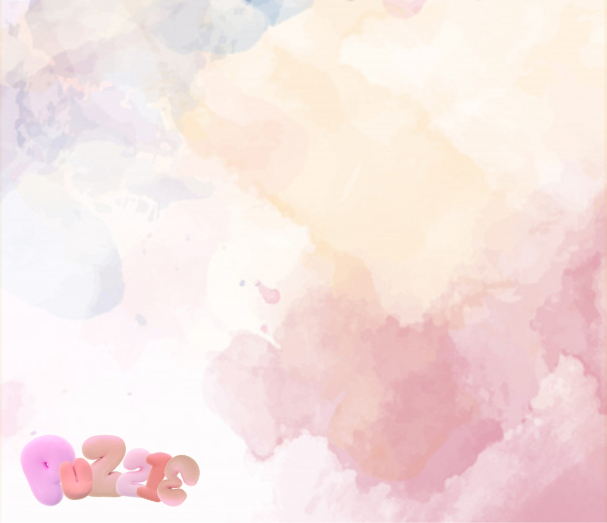
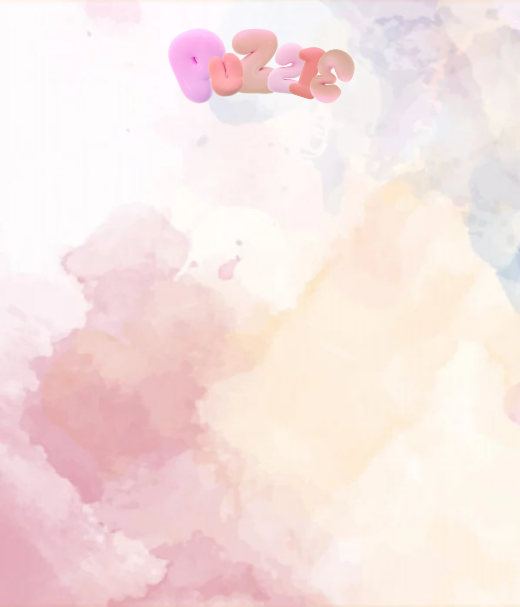
update

diff --git a/lib/MenuWidget.dart b/lib/MenuWidget.dart
@@ -8,6 +8,7 @@ class MenuWidget extends StatelessWidget {
         mainAxisAlignment: MainAxisAlignment.center,
         children: <Widget>[
           Spacer(),
+          Spacer(),
           ElevatedButton(
             onPressed: () {
               // Handle "PLAY" button click
@@ -37,7 +38,7 @@ style: ElevatedButton.styleFrom(
                 ),
               primary: Color.fromARGB(255, 240, 181, 181),
               onPrimary: Colors.black,
-              padding: EdgeInsets.all(50.0),
+              padding: EdgeInsets.fromLTRB(120.0, 40.0, 120.0, 40.0),
               
             ),
 ),
@@ -70,7 +71,7 @@ style: ElevatedButton.styleFrom(
                 ),
               primary: Color.fromARGB(255, 240, 181, 181),
               onPrimary: Colors.black,
-              padding: EdgeInsets.fromLTRB(16.0, 50.0, 16.0, 50.0),
+              padding: EdgeInsets.fromLTRB(90.0, 50.0, 90.0, 50.0),
             ),
           ),
           Spacer(),
@@ -101,7 +102,7 @@ style: ElevatedButton.styleFrom(
                 ),
               primary: Color.fromARGB(255, 240, 181, 181),
               onPrimary: Colors.black,
-              padding: EdgeInsets.fromLTRB(16.0, 50.0, 16.0, 50.0),
+              padding: EdgeInsets.fromLTRB(90.0, 50.0, 90.0, 50.0),
             ),
           ),
           Spacer(),

diff --git a/lib/main.dart b/lib/main.dart
@@ -17,18 +17,20 @@ class MyApp extends StatelessWidget {
           children: [
             // Make sure your image file is located in the 'assets' directory
             Image.asset(
-              'assets/background.jpg',
-              fit: BoxFit.cover,
+              'assets/back.png',
+              fit: BoxFit.fill,
               width: double.infinity,
               height: double.infinity,
             ),
+            // Spacer(),
             MenuWidget(),
             Positioned(
-              bottom: 20.0, // Adjust the bottom position as needed
+              top: 0.0, // Adjust the bottom position as needed
               left: 20.0, // Adjust the left position as needed
               child: Image.asset(
                 'assets/logo.png',
-                width: 300.0, // Set the width and height as needed
+                fit:BoxFit.fitWidth,
+                width: 900.0, // Set the width and height as needed
                 height: 400.0,
               ),
             ),

diff --git a/lib/win.dart b/lib/win.dart
@@ -1,0 +1,5 @@
+import 'package:flutter/material.dart';
+
+class win extends StatelessWidget{
+
+}
